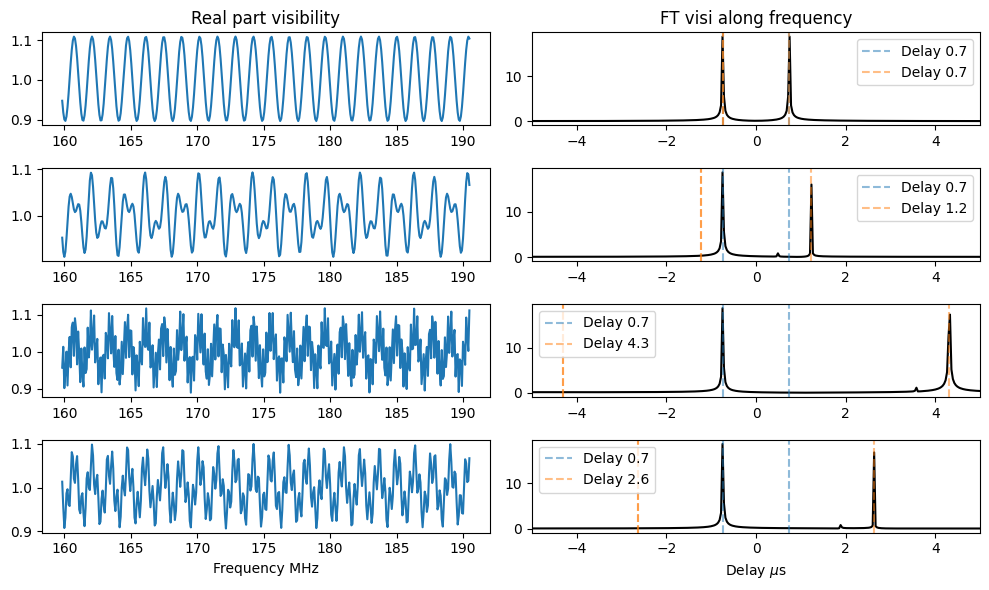
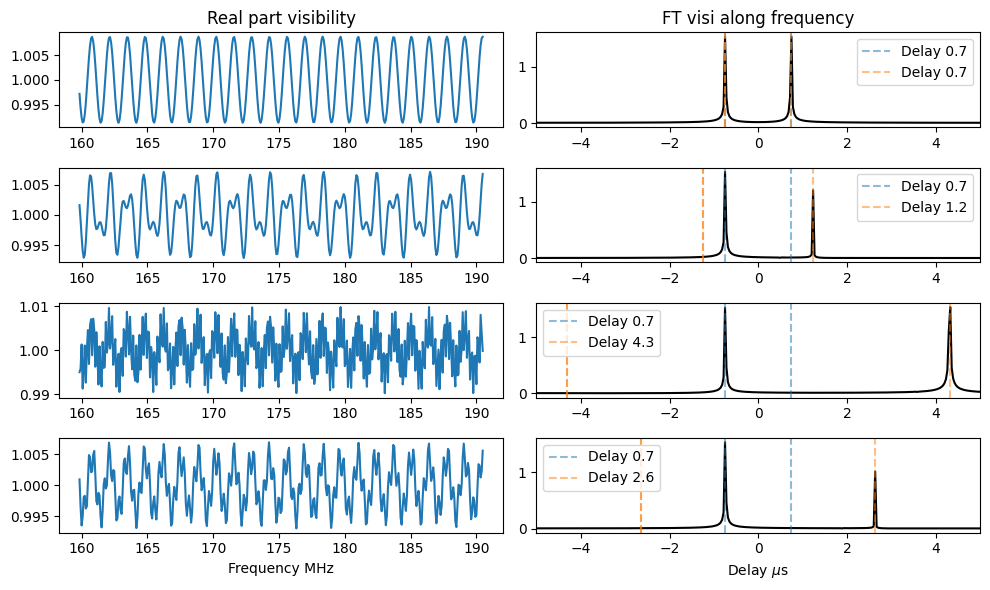
Update the cable reflections in `add_instrumental_effects_woden.py` based on FHD fits

diff --git a/scripts/add_instrumental_effects_woden.py b/scripts/add_instrumental_effects_woden.py
@@ -63,11 +63,17 @@ def get_parser():
     reflec_group.add_argument('--cable_reflection_from_metafits', default=False,
         help='Given a metafits file with cable length information, add in '
              'cable reflections to the antenna gains. This will use the '
-             '--cable_reflection_coeff_amp to set the magnitude.')
+             '--cable_reflection_coeff_amp_min/cable_reflection_coeff_amp_max to set the magnitude.')
     
-    reflec_group.add_argument('--cable_reflection_coeff_amp', default=0.05,
+    reflec_group.add_argument('--cable_reflection_coeff_amp_min', default=0.002,
         type=float, help='Amplitude of the cable will be drawn from a uniform '
-            'distribution between 0 and this value. Default is 0.05.')
+            'distribution between `--cable_reflection_coeff_amp_min` and '
+            '`--cable_reflection_coeff_amp_max`. Default is 0.002. (based on FHD fits)')
+    
+    reflec_group.add_argument('--cable_reflection_coeff_amp_max', default=0.01,
+        type=float, help='Amplitude of the cable will be drawn from a uniform '
+            'distribution between `--cable_reflection_coeff_amp_min` and '
+            '`--cable_reflection_coeff_amp_max`. Default is 0.01. (based on FHD fits)')
 
     gain_group = parser.add_argument_group('ANTENNA (tile) GAIN EFFECTS')
     gain_group.add_argument('--ant_gain_amp_error', default=0, type=float,
@@ -414,7 +420,8 @@ def get_cable_delay(length, velocity_factor=0.81):
     return (2*length) / (speed_of_light.value * velocity_factor)
 
 def create_single_pol_reflections(freqs : np.ndarray,
-                                  cable_reflection_coeff_amp : float,
+                                  cable_reflection_coeff_amp_min : float,
+                                  cable_reflection_coeff_amp_max : float,
                                   delays : np.ndarray) -> np.ndarray:
     """Calculate the reflections caused by a set of cables with a
     given delays, assigns a random reflection coefficient amplitude
@@ -424,7 +431,9 @@ def create_single_pol_reflections(freqs : np.ndarray,
     ----------
     freqs : np.ndarray
         Frequencies to calculate the reflections at (Hz)
-    cable_reflection_coeff_amp : float
+    cable_reflection_coeff_amp_min : float
+        Minimum amplitude of the cable reflection coefficient.
+    cable_reflection_coeff_amp_max : float
         Maximum amplitude of the cable reflection coefficient.
     delays : np.ndarray
         Delays of the cable reflections (seconds)
@@ -436,7 +445,11 @@ def create_single_pol_reflections(freqs : np.ndarray,
         all delays and frequencies.
     """
     
-    reflection_coeffs = np.random.uniform(0, cable_reflection_coeff_amp, len(delays)) + 1j*np.random.uniform(0, cable_reflection_coeff_amp, len(delays))
+    reflection_coeffs = np.random.uniform(cable_reflection_coeff_amp_min, cable_reflection_coeff_amp_max, len(delays)) + 1j*np.zeros(len(delays))
+    
+    phases = np.random.uniform(0, np.pi, len(delays))
+    
+    reflection_coeffs *= np.exp(1j*phases)
     
     ftimesd = np.outer(delays, freqs)
     reflections = reflection_coeffs[:, np.newaxis]*np.exp(-2j * np.pi * ftimesd)
@@ -481,10 +494,14 @@ def create_cable_reflections(args : Namespace, uvfits : UVFITS) -> Tuple[np.ndar
     delays = get_cable_delay(cable_lengths)
     
     reflections_x = create_single_pol_reflections(uvfits.all_freqs,
-                                  args.cable_reflection_coeff_amp, delays)
+                                  args.cable_reflection_coeff_amp_min,
+                                  args.cable_reflection_coeff_amp_max,
+                                  delays)
     
     reflections_y = create_single_pol_reflections(uvfits.all_freqs,
-                                  args.cable_reflection_coeff_amp, delays)
+                                  args.cable_reflection_coeff_amp_min,
+                                  args.cable_reflection_coeff_amp_max,
+                                  delays)
     
     return reflections_x, reflections_y
 

diff --git a/cmake_testing/scripts/add_instrumental_effects_woden/test_add_instrumental_effects_woden.py b/cmake_testing/scripts/add_instrumental_effects_woden/test_add_instrumental_effects_woden.py
@@ -201,7 +201,7 @@ class Test(unittest.TestCase):
         seed = 983745
         
         args = []
-        args.append(f"--numpy_seed={seed}")
+        args.append(f"--inst_numpy_seed={seed}")
         args.append("--uvfits=unittest_example1_band01.uvfits")
         args.append(f"--ant_gain_amp_error={amp_err}")
         
@@ -238,7 +238,7 @@ class Test(unittest.TestCase):
         seed = 34987
         
         args = []
-        args.append(f"--numpy_seed={seed}")
+        args.append(f"--inst_numpy_seed={seed}")
         args.append("--uvfits=unittest_example1_band01.uvfits")
         args.append(f"--ant_gain_phase_error={phase_err}")
         
@@ -285,7 +285,7 @@ class Test(unittest.TestCase):
         seed = 3984
         
         args = []
-        args.append(f"--numpy_seed={seed}")
+        args.append(f"--inst_numpy_seed={seed}")
         args.append("--uvfits=unittest_example1_band01.uvfits")
         args.append(f"--ant_gain_phase_error={phase_err}")
         args.append(f"--ant_gain_amp_error={amp_err}")
@@ -332,7 +332,7 @@ class Test(unittest.TestCase):
         seed = 3984
         
         args = []
-        args.append(f"--numpy_seed={seed}")
+        args.append(f"--inst_numpy_seed={seed}")
         args.append("--uvfits=unittest_example1_band01.uvfits")
         args.append(f"--ant_gain_phase_error={phase_err}")
         args.append(f"--ant_gain_amp_error={amp_err}")
@@ -382,7 +382,7 @@ class Test(unittest.TestCase):
         chi_err = 0.05
         
         args = []
-        args.append(f"--numpy_seed={seed}")
+        args.append(f"--inst_numpy_seed={seed}")
         args.append("--uvfits=unittest_example1_band01.uvfits")
         args.append(f"--ant_gain_phase_error={phase_err}")
         args.append(f"--ant_gain_amp_error={amp_err}")
@@ -479,6 +479,8 @@ class Test(unittest.TestCase):
         args = []
         args.append("--uvfits=unittest_example1_band01.uvfits")
         args.append(f"--add_visi_noise")
+        args.append(f"--noise_numpy_seed=923487")
+        
         
         self.run_code_test_noise(args)
         
@@ -494,6 +496,7 @@ class Test(unittest.TestCase):
         args.append("--uvfits=unittest_example1_band01.uvfits")
         args.append(f"--visi_noise_int_time={int_time}")
         args.append(f"--visi_noise_freq_reso={freq_reso}")
+        args.append(f"--noise_numpy_seed=923487")
         
         self.run_code_test_noise(args, int_time, freq_reso)
         
@@ -629,7 +632,8 @@ class Test(unittest.TestCase):
         args = []
         args.append("--uvfits=unittest_example1_band01.uvfits")
         args.append(f"--cable_reflection_from_metafits={metafits}")
-        args.append(f"--cable_reflection_coeff_amp=0.05")
+        args.append(f"--cable_reflection_coeff_amp_min=0.002")
+        args.append(f"--cable_reflection_coeff_amp_max=0.01")
         
         self.run_code_test_reflections(args, metafits)
         

diff --git a/docs/sphinx/scripts/add_instrumental_effects_woden.rst b/docs/sphinx/scripts/add_instrumental_effects_woden.rst
@@ -110,7 +110,9 @@ $
 \tau_i = \frac{2l_i}{0.81c},
 $
 
-where $l_i$ is the length of the cable connected to antenna $i$, and $c$ is the speed of light. The factor 0.81 comes from the velocity factor of the cable, which we again take from `Beardsley et al (2016)`_. The cable lengths are listed in the MWA `metafits` file, so `add_instrumental_effects_woden.py` reads them directly from there. The reflection coefficients are drawn from a uniform distribution between 0 and a maximum value set by ``--cable_reflection_coeff_amp``. Currently a random number assigned is to both the real and imaginary parts of $R_{0,i}$.
+where $l_i$ is the length of the cable connected to antenna $i$, and $c$ is the speed of light. The factor 0.81 comes from the velocity factor of the cable, which we again take from `Beardsley et al (2016)`_. The cable lengths are listed in the MWA `metafits` file, so `add_instrumental_effects_woden.py` reads them directly from there. The reflection coefficient amplitudes are drawn from a uniform distribution between ``--cable_reflection_coeff_amp_min=0.02`` and ``--cable_reflection_coeff_amp_max=0.01``. These default values are based one a set of fitted FHD cable reflection solutions, but can be changed by the user. A random phase offset between 0 and 180 degrees is added to the reflection coefficient. 
+
+.. warning:: Really, the reflection coefficient tied to the cable length, but I'm just chucking a random one on each tile for now. Still answers question of whether we can fit them with ``hyperdrive``, but ``FHD`` might average by cable type and then fit the reflections? Should the phase offset be the same for cable types?
 
 Applying these reflections to a simulation of a 1 Jy point source at zenith (so visibilities all of $1 + 0i$) allows us to test the applied reflections by Fourier transforming visibilities and checking the input delays:
 
